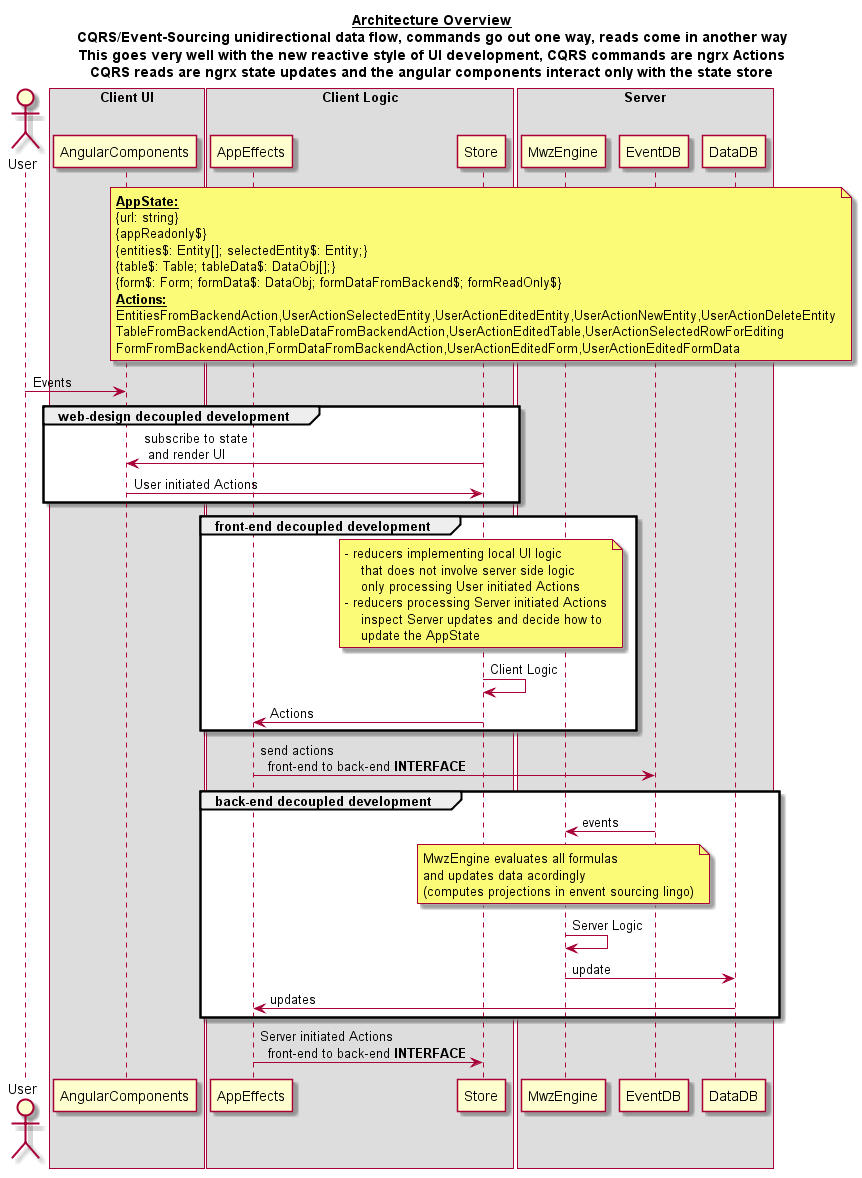
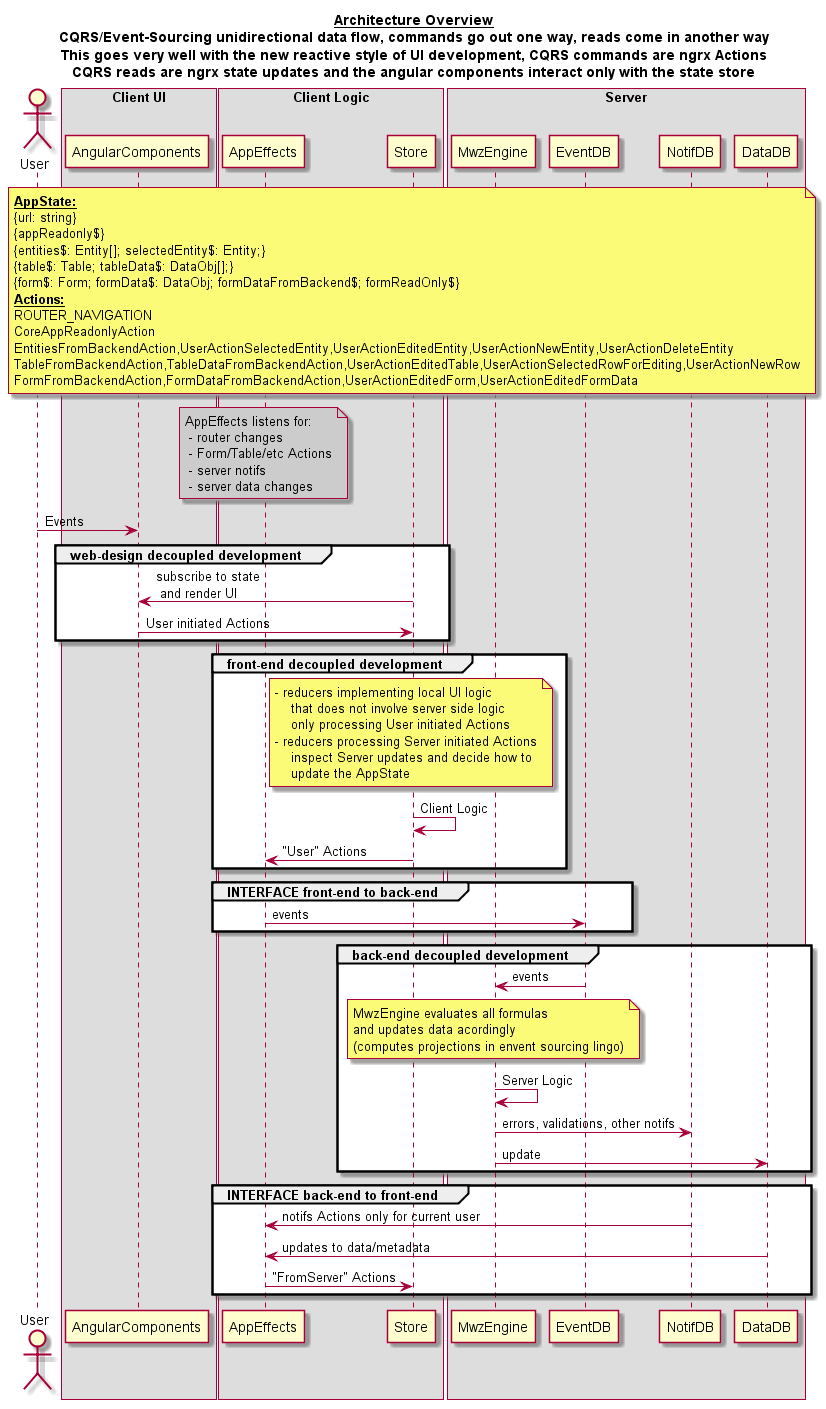
editing for data and form metadata working

diff --git a/src/app/app.effects.ts b/src/app/app.effects.ts
@@ -20,7 +20,7 @@ import { BaseObj } from "./domain/base_obj";
 import { DataObj } from "./domain/metadata/data_obj";
 import { Entity, Property } from "./domain/metadata/entity";
 import { ChangeObj } from "./domain/change_obj";
-import { MwzEvents } from "./domain/metadata/event";
+import { MwzEvents } from "./domain/event";
 
 import { Table, TableColumn } from "./domain/uimetadata/table";
 import { Form, NodeElement, NodeType, NodeType2Str } from "./domain/uimetadata/form";
@@ -32,9 +32,13 @@ import { PouchdbService } from "./pouchdb.service";
 
 export type ActionsToBeSentToServer =
     | appState.UserActionEditedFormData
+    | appState.UserActionEditedForm
+    | appState.UserActionEditedTable
     ;
 export const ActionsToBeSentToServerNames = [
     appState.UserActionEditedFormDataN,
+    appState.UserActionEditedFormN,
+    appState.UserActionEditedTableN
 ];
 
 @Injectable()
@@ -65,6 +69,7 @@ export class AppEffects {
     private listenForNotifsFromServer(change: { doc: MwzEvents }) {
         console.log(change);
         let event = change.doc;
+        this.store.dispatch(new appState.FormNotifFromBackendAction(event));
     }
 
     private listenFormDataChangesFromServer(change: { docs: Array<BaseObj> }) {
@@ -75,9 +80,10 @@ export class AppEffects {
             } else if (obj.mwzType == 'Table_') {
                 //TODO
             } else if (obj.mwzType == 'Form_') {
-                //TODO
+                this.store.dispatch(new appState.FormFromBackendAction(obj as Form));
             } else {
                 this.store.dispatch(new appState.FormDataFromBackendAction(obj));
+                this.store.dispatch(new appState.TableDataFromBackendAction([new ChangeObj(obj as DataObj)]));
             }
         });
     }
@@ -124,7 +130,7 @@ export class AppEffects {
             this.changeEntity(path);
         }
 
-        if (id != this.currentUrl.id) {
+        if (id && id != this.currentUrl.id) {
             this.currentUrl.id = id;
             this.pouchDbService.getDataObj(id)
                 .then(obj => this.store.dispatch(new appState.FormDataFromBackendAction(obj)));

diff --git a/src/app/backend/mwz_engine.ts b/src/app/backend/mwz_engine.ts
@@ -11,7 +11,7 @@ import { BaseObj } from "../domain/base_obj";
 import { Entity, Property } from "../domain/metadata/entity";
 import { DataObj } from "../domain/metadata/data_obj";
 
-import * as events from "../domain/metadata/event";
+import * as events from "../domain/event";
 
 var dataDB = new PouchDB("http://localhost:5984/mwzdata");
 var eventsDB = new PouchDB("http://localhost:5984/mwzevents");
@@ -23,7 +23,7 @@ export class MwzEngine {
         eventsDB.changes({
             since: 'now',//FIXME: start listening from the last action processed, implement proper queue
             include_docs: true,
-            live: true            
+            live: true
         }).on('change', change => {
             console.log(change);
             if (!change.deleted) {
@@ -35,8 +35,15 @@ export class MwzEngine {
     }
 
     private processEvent(event: events.MwzEvents) {
-        if (event.type === events.UserActionEditedFormN) {
-            this.processDataObj(event);
+        switch (event.type) {
+            case events.UserActionEditedFormDataN:
+                this.processDataObj(event);
+                break;
+            case events.UserActionEditedFormN:
+                this.processForm(event);
+                break;
+            default:
+                console.warn("Unknown event", event);
         }
     }
 
@@ -46,5 +53,17 @@ export class MwzEngine {
         event.notifMsg = 'OK';//TODO; if there are errors, update the notif accordingly
         delete event._rev;
         notifsDB.put(event);
+    }
+
+    private processForm(event: events.UserActionEditedFormEvent) {
+        let existingForm = dataDB.get(event.form._id)
+            .catch(err => { console.error(err); return; })
+            .then(frm => {
+                event.form._rev = frm._rev
+                dataDB.put(event.form).catch(err => console.error(err));
+                event.notifMsg = 'OK';//TODO; if there are errors, update the notif accordingly
+                delete event._rev;
+                notifsDB.put(event);
+            });
     }
 }

diff --git a/src/app/form/form-table.component.ts b/src/app/form/form-table.component.ts
@@ -1,6 +1,8 @@
 import { Component, OnChanges } from '@angular/core';
 import { BaseNodeComponent } from "./base_node";
 
+import { NodeElement } from "../domain/uimetadata/form";
+
 @Component({
   selector: '[form-table]',
   template: `
@@ -18,13 +20,13 @@ import { BaseNodeComponent } from "./base_node";
       </tr>
     </thead>
     <tbody>
-      <tr *ngFor="let childControl of topLevelFormGroup.get(parentFormPath).controls; let idx = index">
+      <tr *ngFor="let rowControl of topLevelFormGroup.get(parentFormPath)?.controls; let idx = index">
         <ng-container *ngFor="let child of nodeElement.childNodes">
           <ng-container [ngSwitch]="child.nodeName">
             <ng-container *ngSwitchCase="'form-autocomplete'">
-              <td *ngFor="let propName of child.attributes?.copiedProperties">
-                <input type="text" [id]="parentFormPath + '.' + idx + '.' + child.entityName + '.' + propName" 
-                  [formControl]="topLevelFormGroup.get(parentFormPath + '.' + idx + '.' + child.entityName + '.' + propName)" />
+              <td *ngFor="let columnControl of topLevelFormGroup.get(parentFormPath + '.' + child.entityName)?.controls; let colIdx = index">
+                <input type="text" [id]="parentFormPath + '.' + idx + '.' + child.entityName + '.' + getCopiedPropertyName(child, colIdx)" 
+                  [formControl]="columnControl" />
               </td>
             </ng-container>
             <td *ngSwitchCase="'form-input'">
@@ -46,7 +48,16 @@ export class FormTableComponent extends BaseNodeComponent implements OnChanges {
   }
 
   ngOnChanges() {
-    console.log(this.nodeElement);
+    console.log(this.nodeElement, this.topLevelFormGroup);
+  }
+
+  getCopiedPropertyName(child: NodeElement, idx: number) {
+    let ret = ((child.attributes || {} as any).copiedProperties || {} as any)[idx];
+    if (! ret) {
+      console.error("copiedProperties does not have enough elements: ", child, idx);
+      ret = 'NOT-FOUND-' + idx;
+    }
+    return ret;
   }
 
 }

diff --git a/src/app/form/form.state.ts b/src/app/form/form.state.ts
@@ -2,10 +2,10 @@ import { Params, RouterStateSnapshot } from '@angular/router';
 import { Action, ActionReducerMap, createSelector, createFeatureSelector } from '@ngrx/store';
 
 import { DataObj } from '../domain/metadata/data_obj';
-import { MwzEvents } from "../domain/metadata/event";
+import { MwzEvents } from "../domain/event";
 import { Form } from '../domain/uimetadata/form';
 import { ChangeObj, applyChanges } from '../domain/change_obj';
-import * as events from '../domain/metadata/event';
+import * as events from '../domain/event';
 
 export { DataObj };
 export { Form };
@@ -28,7 +28,8 @@ export const formInitialState: FormState = {
 export const FormDataFromBackendActionN = "[form] FormDataFromBackendAction";
 export const FormNotifFromBackendActionN = "[form] FormNotifFromBackendAction";
 export const FormFromBackendActionN = "[form] FormFromBackendAction";
-export const UserActionEditedFormDataN = "[form] UserActionEditedFormData";
+export const UserActionEditedFormDataN = events.UserActionEditedFormDataN;
+export const UserActionEditedFormN = events.UserActionEditedFormN;
 
 
 export class FormDataFromBackendAction implements Action {
@@ -50,9 +51,12 @@ export class FormFromBackendAction implements Action {
 }
 
 export class UserActionEditedForm implements Action {
-  readonly type = events.UserActionEditedFormN;
-
-  constructor(public form: Form) { }
+  readonly type = UserActionEditedFormN;
+  public event: events.UserActionEditedFormEvent;
+  
+  constructor(public form: Form) {
+    this.event = new events.UserActionEditedFormEvent(form);
+  }
 }
 
 export class UserActionEditedFormData implements Action {

diff --git a/src/app/editor/editor.component.ts b/src/app/editor/editor.component.ts
@@ -34,22 +34,21 @@ export class EditorComponent implements OnInit {
   private parserService: MwzParser;
 
   constructor(private store: Store<appState.AppState>) {
-    this.store.select(appState.getSelectedEntityState).subscribe(entity => this.entity = entity);
     this.parserService = new MwzParser();
   }
 
   public applyChanges() {
-    console.log("EditorComponent: isFom=", this.isForm);
+    console.log("EditorComponent: isFom=", this.isForm, this.entity);
     if (this.isForm) {
       let newForm = this.parserService.parseForm(this.entity, this.text);
       newForm.mwzType = 'Form_';
       newForm._id = 'Form_:' + this.path;
-      this.store.dispatch(new fromForm.FormFromBackendAction(newForm));
+      this.store.dispatch(new fromForm.UserActionEditedForm(newForm));
     } else {
       let newTable = this.parserService.parseTable(this.entity, this.text);
       newTable.mwzType = 'Table_';
       newTable._id = 'Table_:' + this.path;
-      this.store.dispatch(new fromTable.TableFormBackendAction(newTable));
+      this.store.dispatch(new fromTable.UserActionEditedTable(newTable));
     }
   }
 
@@ -63,7 +62,7 @@ export class EditorComponent implements OnInit {
       this.path = path;
       let form = state.form.form;
       let table = state.table.table;
-      this.entity = null;//FIXME: get real selected entity from url or somewhere
+      this.entity = state.entity.selectedEntity;
       if (this.isForm && null != form) {
         this.text = this.parserService.serializeForm(this.entity, form);
       }

diff --git a/src/app/domain/event.ts b/src/app/domain/event.ts
@@ -1,0 +1,52 @@
+import { BaseObj } from "./base_obj";
+import { DataObj } from "./metadata/data_obj";
+import { Form } from "./uimetadata/form";
+import { Table } from "./uimetadata/table";
+
+export class MwzEvent extends BaseObj {
+    readonly mwzType = 'Event_'
+    type: string;
+
+    constructor() {
+        super();
+        this._id = BaseObj.uuid();
+    }
+}
+
+export const UserActionEditedFormDataN = "[form] UserActionEditedFormData";
+export const UserActionEditedFormN = "[form] UserActionEditedForm";
+export const UserActionEditedTableN = "[table] UserActionEditedTable";
+
+export class UserActionEditedFormDataEvent extends MwzEvent {
+    readonly type = UserActionEditedFormDataN;
+    public notifMsg: string;
+
+    constructor(public obj: DataObj) {
+        super();
+    }
+}
+
+export class UserActionEditedFormEvent extends MwzEvent {
+    readonly type = UserActionEditedFormN;
+    public notifMsg: string;
+
+    constructor(public form: Form) {
+        super();
+    }
+}
+
+
+export class UserActionEditedTableEvent extends MwzEvent {
+    readonly type = UserActionEditedTableN;
+    public notifMsg: string;
+
+    constructor(public table: Table) {
+        super();
+    }
+}
+
+export type MwzEvents = 
+    | UserActionEditedFormDataEvent
+    | UserActionEditedFormEvent
+    | UserActionEditedTableEvent
+    ;

diff --git a/src/app/table/table.state.ts b/src/app/table/table.state.ts
@@ -10,6 +10,7 @@ export { DataObj };
 export { Table };
 export { ChangeObj, applyChanges };
 
+import * as events from '../domain/event';
 
 export interface TableState {
   table: Table;
@@ -23,7 +24,7 @@ export const tableInitialState: TableState = {
 
 export const TableDataFromBackendActionN = "[table] TableDataFromBackendAction";
 export const TableFromBackendActionN = "[table] TableFromBackendAction";
-export const UserActionEditedTableN = "[table] UserActionEditedTable";
+export const UserActionEditedTableN = events.UserActionEditedTableN;
 export const UserActionSelectedRowForEditingN = "[table] UserActionSelectedRowForEditing";
 export const UserActionNewRowN = "[table] UserActionNewRow";
 
@@ -35,8 +36,11 @@ export class TableDataFromBackendAction implements Action {
 
 export class UserActionEditedTable implements Action {
   readonly type = UserActionEditedTableN;
-
-  constructor(public table: Table) { }
+  public event: events.UserActionEditedTableEvent;
+  
+  constructor(public table: Table) {
+    this.event = new events.UserActionEditedTableEvent(table);
+  }
 }
 
 export class TableFormBackendAction implements Action {

diff --git a/src/app/form/form-tabs.component.ts b/src/app/form/form-tabs.component.ts
@@ -34,7 +34,7 @@ export class FormTabsComponent extends BaseNodeComponent implements OnChanges {
     let formArray = this.topLevelFormGroup.get(this.parentFormPath) as FormArray;
     if (!formArray) return;
     this.tabNames = formArray.controls.map(child => {
-      return child.get(this.nodeElement.attributes.tabNameFormPath).value;
+      return (child.get(this.nodeElement.attributes.tabNameFormPath) || {} as any).value;
     });
   }
 

diff --git a/src/app/form/form.component.ts b/src/app/form/form.component.ts
@@ -77,7 +77,7 @@ export class FormComponent implements OnInit {
                 this.theFormGroup.enable();
             }
 
-            if (formState.eventFromBackend && formState.eventFromBackend._id === this.lastSaveAction.event._id) {
+            if (formState.eventFromBackend && this.lastSaveAction && formState.eventFromBackend._id === this.lastSaveAction.event._id) {
                 this.saveInProgress = false;
             }
 

diff --git a/src/app/pouchdb.service.ts b/src/app/pouchdb.service.ts
@@ -7,7 +7,7 @@ import { BaseObj } from "./domain/base_obj";
 import { ChangeObj } from "./domain/change_obj";
 import { DataObj } from "./domain/metadata/data_obj";
 import { Entity } from "./domain/metadata/entity";
-import { MwzEvents } from "./domain/metadata/event";
+import { MwzEvents } from "./domain/event";
 import { Table } from "./domain/uimetadata/table";
 import { Form } from "./domain/uimetadata/form";
 
